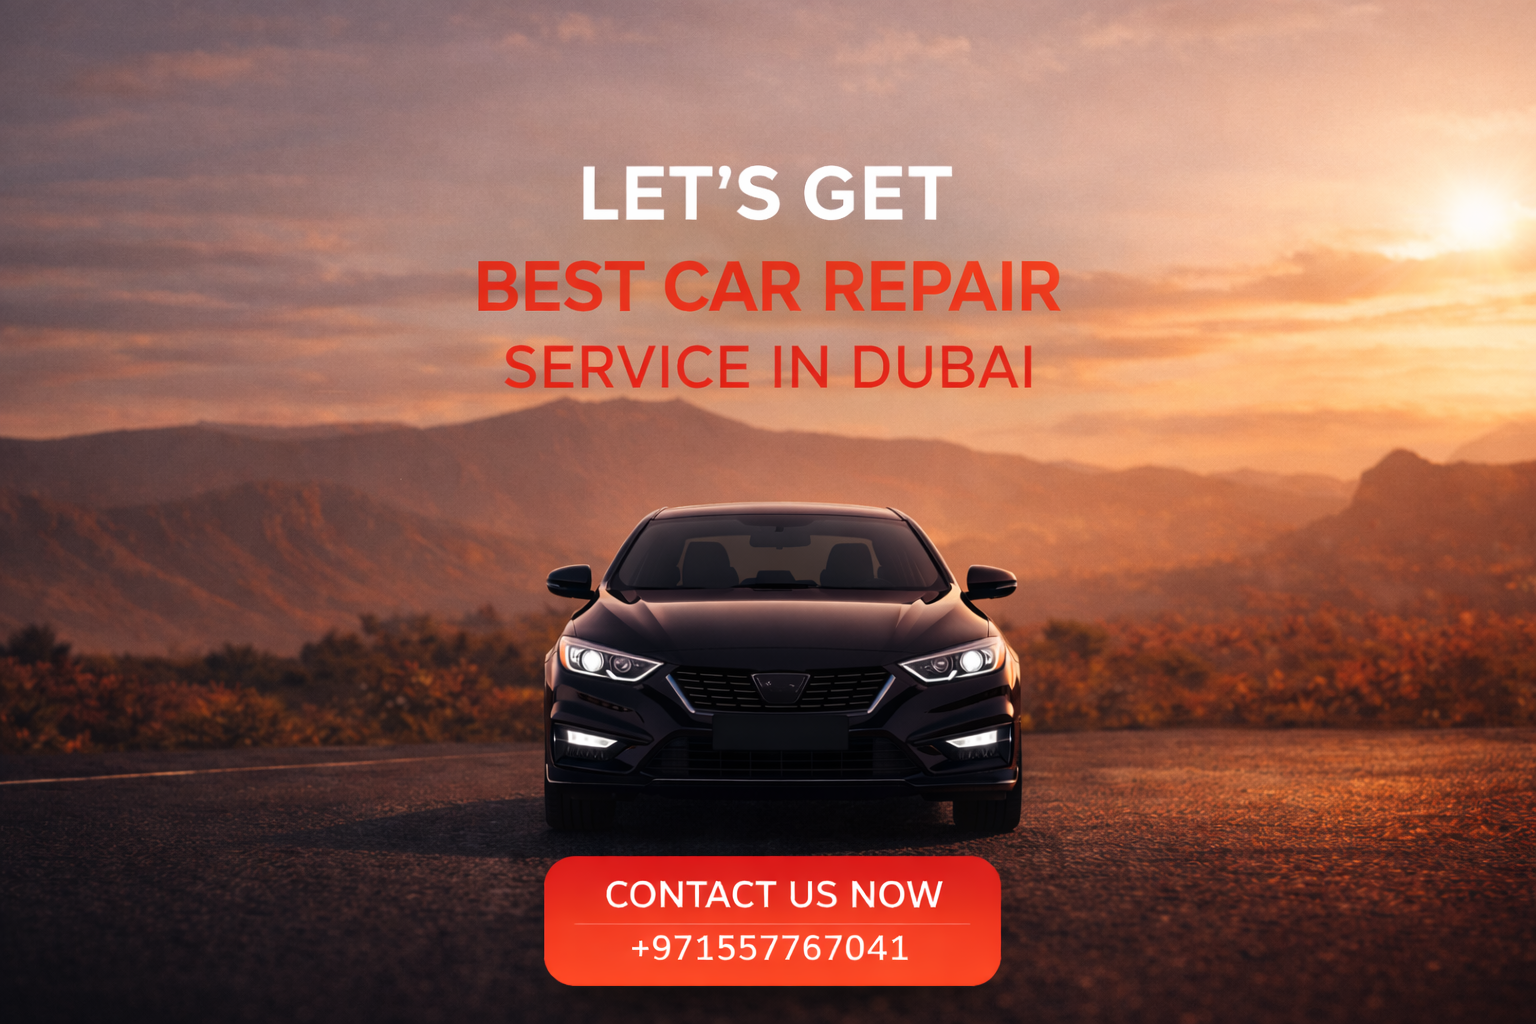
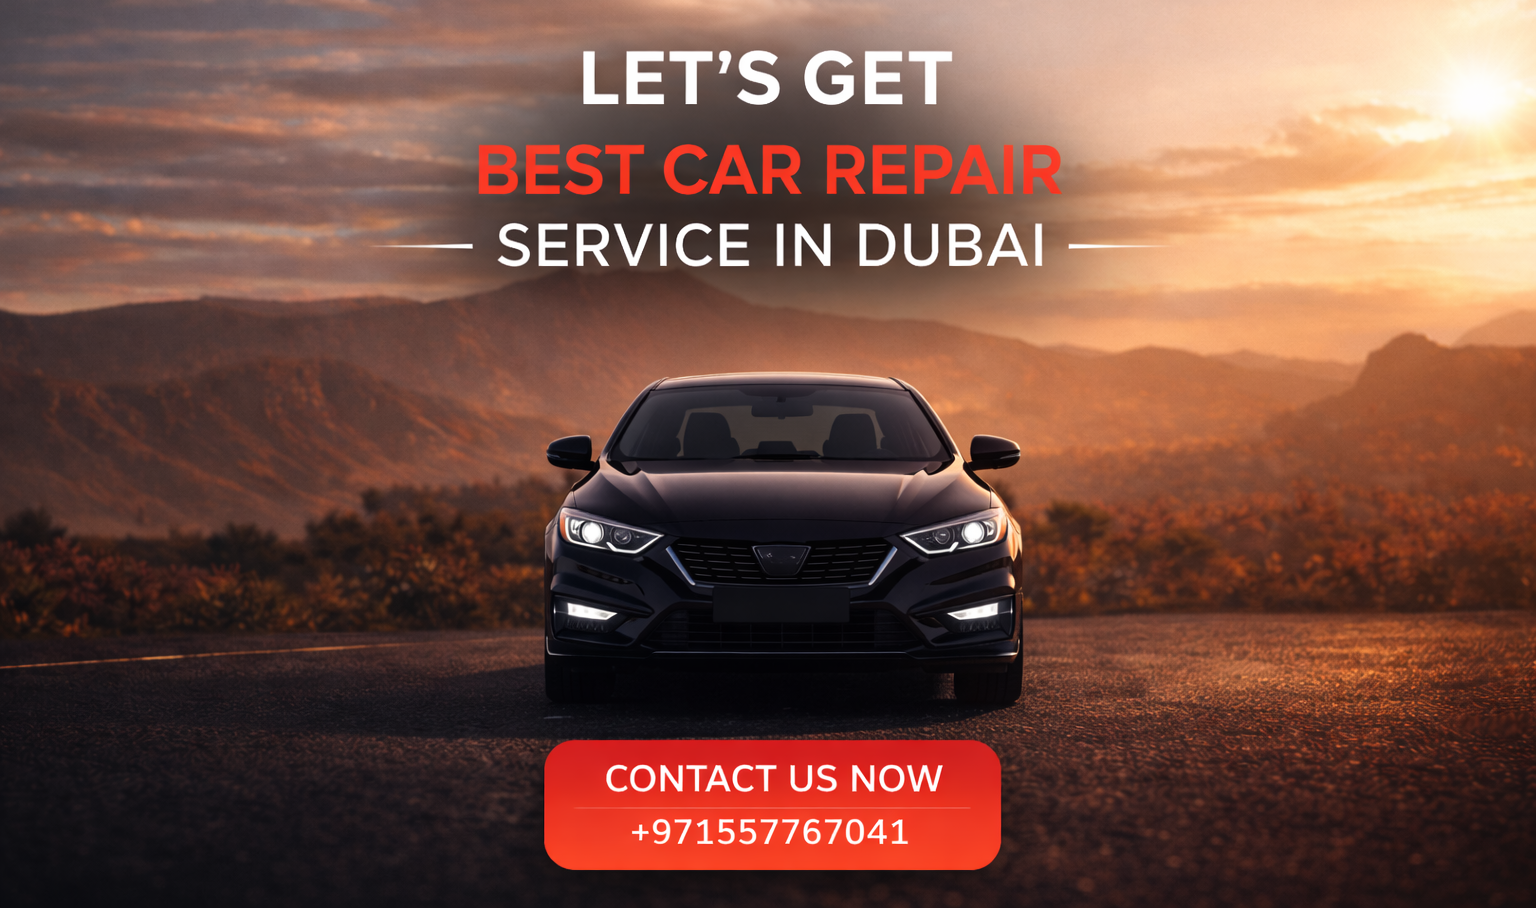
final edit dont

diff --git a/src/components/contact/ContactSection.tsx b/src/components/contact/ContactSection.tsx
@@ -27,19 +27,19 @@ export const ContactSection = ({
 }: ContactSectionProps) => {
   return (
     <section className="lg:py-20 py-12 bg-white">
-      <div className=" mx-auto px-2 sm:px-4">
+      <div className=" mx-auto px-2 sm:px-20">
         {/* Single column layout for medium screens */}
         <div className="flex flex-col md:flex-col lg:grid lg:grid-cols-2 gap-8 lg:gap-12 max-w-6xl md:max-w-7xl mx-auto">
           {/* Form Section - Full width on medium screens */}
-          <div className="bg-brand p-4 sm:p-6 md:p-12 lg:p-10 rounded-none w-full md:w-full lg:w-auto">
+          <div className="bg-brand  min-[320px]:py-4 sm:p-10 md:p-12 lg:p-10 rounded-none w-full md:w-full lg:w-auto">
             <ContactForm onSubmit={onFormSubmit} submitButtonText={submitButtonText} />
           </div>
 
           {/* Contact Info Section - Full width on medium screens */}
           <div className="flex flex-col space-y-8 p-4 sm:p-6 md:p-8 lg:p-8 w-full md:w-full lg:w-auto">
             <div>
-              <p className="text-accent text-sm md:text-2xl font-bold mb-2 text-brand">{label}</p>
-              <h2 className="min-[400px]:text-xl md:text-5xl lg:text-4xl font-bold max-[399px]:text-lg text-foreground">
+              <p className="text-accent min-[767px]:text-lg text-sm font-bold mb-2 text-brand">{label}</p>
+              <h2 className="min-[400px]:text-xl min-[767px]:text-3xl lg:text-4xl font-bold max-[399px]:text-lg text-foreground">
                 {heading}
               </h2>
             </div>
@@ -47,14 +47,14 @@ export const ContactSection = ({
             <div className="space-y-6 md:space-y-8">
               {contactInfo.location && (
                 <div className="flex items-start gap-4 md:gap-6">
-                  <div className="flex-shrink-0 w-12 min-[400px]:w-11 min-[400px]:h-11 md:w-16 md:h-16 max-[399px]:w-10 max-[399px]:h-10 h-12 bg-brand rounded-full flex items-center justify-center">
-                    <MapPin className="min-[400px]:w-6 min-[400px]:h-6 md:w-10 md:h-10 max-[399px]:w-5 max-[399px]:h-5 text-primary" />
+                  <div className="flex-shrink-0 w-12 min-[400px]:w-11 min-[400px]:h-11 min-[767px]:h-10 min-[767px]:w-10 max-[399px]:w-10 max-[399px]:h-10 h-12 bg-brand rounded-full flex items-center justify-center">
+                    <MapPin className="min-[400px]:w-6  min-[400px]:h-6 min-[767px]:h-5 min-[767px]:w-5  max-[399px]:w-5 max-[399px]:h-5 text-primary" />
                   </div>
                   <div>
-                    <h3 className="font-bold text-foreground min-[400px]:text-sm md:text-2xl max-[399px]:text-xs mb-1">
+                    <h3 className="font-bold text-foreground min-[400px]:text-sm min-[767px]:text-xl max-[399px]:text-xs mb-1">
                       {contactInfo.location.title}
                     </h3>
-                    <p className="text-muted-foreground min-[400px]:text-sm md:text-xl max-[399px]:text-xs ">
+                    <p className="text-muted-foreground min-[400px]:text-sm min-[767px]:text-lg max-[399px]:text-xs ">
                       {contactInfo.location.address}
                     </p>
                   </div>
@@ -63,16 +63,16 @@ export const ContactSection = ({
 
               {contactInfo.email && (
                 <div className="flex items-start gap-4 md:gap-6">
-                  <div className="flex-shrink-0 w-12 h-12 min-[400px]:w-11 min-[400px]:h-11 md:w-16 md:h-16 max-[399px]:w-10 max-[399px]:h-10 bg-brand rounded-full flex items-center justify-center">
-                    <Mail className="min-[400px]:w-6 min-[400px]:h-6 md:w-10 md:h-10 max-[399px]:w-5 max-[399px]:h-5 text-primary" />
+                  <div className="flex-shrink-0 w-12 h-12 min-[400px]:w-11 min-[400px]:h-11 min-[767px]:h-10 min-[767px]:w-10 max-[399px]:w-10 max-[399px]:h-10 bg-brand rounded-full flex items-center justify-center">
+                    <Mail className="min-[400px]:w-6 min-[400px]:h-6 min-[767px]:h-5 min-[767px]:w-5 max-[399px]:w-5 max-[399px]:h-5 text-primary" />
                   </div>
                   <div>
-                    <h3 className="font-bold text-foreground min-[400px]:text-sm md:text-2xl max-[399px]:text-xs mb-1">
+                    <h3 className="font-bold text-foreground min-[400px]:text-sm min-[767px]:text-xl max-[399px]:text-xs mb-1">
                       Email
                     </h3>
                     <a
                       href={`mailto:${contactInfo.email}`}
-                      className="text-muted-foreground hover:text-accent transition-colors min-[400px]:text-sm md:text-xl max-[399px]:text-xs underline"
+                      className="text-muted-foreground hover:text-accent transition-colors min-[400px]:text-sm min-[767px]:text-lg max-[399px]:text-xs underline"
                     >
                       {contactInfo.email}
                     </a>
@@ -82,16 +82,16 @@ export const ContactSection = ({
 
               {contactInfo.phone && (
                 <div className="flex items-start gap-4 md:gap-6">
-                  <div className="flex-shrink-0 w-12 h-12 min-[400px]:w-11 min-[400px]:h-11 md:w-16 md:h-16 max-[399px]:w-10 max-[399px]:h-10 bg-brand rounded-full flex items-center justify-center">
-                    <Phone className="min-[400px]:w-6 min-[400px]:h-6 md:w-10 md:h-10 max-[399px]:w-5 max-[399px]:h-5 text-primary" />
+                  <div className="flex-shrink-0 w-12 h-12 min-[400px]:w-11 min-[400px]:h-11 min-[767px]:h-10 min-[767px]:w-10 max-[399px]:w-10 max-[399px]:h-10 bg-brand rounded-full flex items-center justify-center">
+                    <Phone className="min-[400px]:w-6 min-[400px]:h-6 min-[767px]:h-5 min-[767px]:w-5 max-[399px]:w-5 max-[399px]:h-5 text-primary" />
                   </div>
                   <div>
-                    <h3 className="font-bold text-foreground min-[400px]:text-sm md:text-2xl max-[399px]:text-xs mb-1">
+                    <h3 className="font-bold text-foreground min-[400px]:text-sm min-[767px]:text-xl max-[399px]:text-xs mb-1">
                       Call / Whatsapp
                     </h3>
                     <a
                       href={`tel:${contactInfo.phone.replace(/\s/g, '')}`}
-                      className="text-muted-foreground hover:text-accent transition-colors min-[400px]:text-sm md:text-xl max-[399px]:text-xs underline"
+                      className="text-muted-foreground hover:text-accent transition-colors min-[400px]:text-sm min-[767px]:text-lg max-[399px]:text-xs underline"
                     >
                       {contactInfo.phone}
                     </a>

diff --git a/src/components/Hero/hero-slider.tsx b/src/components/Hero/hero-slider.tsx
@@ -1,13 +1,5 @@
 "use client"
 
-import Link from "next/link"
-
-import {
-  Carousel,
-  CarouselContent,
-  CarouselItem,
-  type CarouselApi
-} from "@/components/ui/carousel"
 import { useState, useEffect } from "react"
 import Image from "next/image"
 
@@ -37,15 +29,10 @@ interface HeroSliderProps {
 
 export function HeroSlider({ slides }: HeroSliderProps) {
   const [currentSlide, setCurrentSlide] = useState(0)
-  const [isMobile, setIsMobile] = useState(false)
+  const [mounted, setMounted] = useState(false)
 
   useEffect(() => {
-    const checkMobile = () => {
-      setIsMobile(window.innerWidth < 768)
-    }
-    checkMobile()
-    window.addEventListener("resize", checkMobile)
-    return () => window.removeEventListener("resize", checkMobile)
+    setMounted(true)
   }, [])
 
   useEffect(() => {
@@ -82,15 +69,22 @@ export function HeroSlider({ slides }: HeroSliderProps) {
               zIndex: index === currentSlide ? 1 : 0,
             }}
           >
+            {/* Single Image Approach - More Reliable */}
             <Image
-              src={isMobile && slide.imageSmall ? slide.imageSmall : slide.image}
+              src={slide.image}
               alt={slide.title}
               fill
-              sizes="100vw"
+              sizes="(max-width: 768px) 100vw, 100vw"
               priority={index === 0}
-              className="object-cover"
-              style={{ objectPosition: "center" }}
+              className="object-cover md:object-cover"
+              style={{
+                objectPosition: "center",
+                // Force image to show on all screens
+                display: 'block'
+              }}
+              quality={90}
             />
+
             {/* Dark Overlay */}
             <div className="absolute inset-0 bg-gradient-to-r from-black/80 via-black/50 to-black/30" />
           </div>
@@ -99,13 +93,16 @@ export function HeroSlider({ slides }: HeroSliderProps) {
 
       {/* Persistent Content */}
       <div className="absolute inset-0 z-10 flex h-full items-center justify-center px-4 md:px-8 lg:px-16 pointer-events-none">
-        <div className="max-w-4xl w-full text-center animate-fadeIn pointer-events-auto">
-          {/* Title - Specifically optimized for 320px screens */}
+        <div
+          key={currentSlide}
+          className="max-w-4xl w-full text-center animate-fadeIn pointer-events-auto"
+        >
+          {/* Title */}
           <h1
-            className="text-[32px] sm:text-4xl md:text-5xl lg:text-7xl xl:text-8xl text-white mb-6 tracking-tight drop-shadow-2xl leading-[1.1] font-extrabold uppercase"
+            className="text-2xl sm:text-4xl md:text-5xl lg:text-7xl xl:text-8xl text-white mb-6 tracking-tight drop-shadow-2xl leading-[1.1] font-extrabold uppercase"
             style={{ fontFamily: 'Montserrat, sans-serif' }}
           >
-            {slides[0].title}
+            {slides[currentSlide].title}
           </h1>
 
           {/* Description */}
@@ -113,24 +110,33 @@ export function HeroSlider({ slides }: HeroSliderProps) {
             className="text-sm sm:text-base md:text-xl text-white mb-8 max-w-2xl mx-auto leading-relaxed drop-shadow-lg px-2 font-medium"
             style={{ fontFamily: 'Poppins, sans-serif' }}
           >
-            {slides[0].description}
+            {slides[currentSlide].description}
           </p>
 
           {/* CTA Button */}
           <div className="flex flex-col sm:flex-row gap-4 justify-center items-center">
-            <a
-              href={slides[0].buttonLink}
-              className="font-bold bg-brand py-3 px-10 text-white hover:bg-brand/90 transition-all duration-300 transform hover:scale-105 inline-block text-center text-lg rounded-sm shadow-xl"
-              style={{ fontFamily: 'Montserrat, sans-serif' }}
-              onClick={() => handleCTAClick(slides[0].id, slides[0].buttonText)}
-            >
-              {slides[0].buttonText}
-            </a>
+            {slides[currentSlide].buttonLink.startsWith('tel:') ? (
+              <a
+                href={slides[currentSlide].buttonLink}
+                className="font-bold bg-brand py-3 px-10 text-white hover:bg-brand/90 transition-all duration-300 transform hover:scale-105 inline-block text-center text-lg rounded-sm shadow-xl"
+                style={{ fontFamily: 'Montserrat, sans-serif' }}
+                onClick={() => handleCTAClick(slides[currentSlide].id, slides[currentSlide].buttonText)}
+              >
+                {slides[currentSlide].buttonText}
+              </a>
+            ) : (
+              <a
+                href={slides[currentSlide].buttonLink}
+                className="font-bold bg-brand py-3 px-10 text-white hover:bg-brand/90 transition-all duration-300 transform hover:scale-105 inline-block text-center text-lg rounded-sm shadow-xl"
+                style={{ fontFamily: 'Montserrat, sans-serif' }}
+                onClick={() => handleCTAClick(slides[currentSlide].id, slides[currentSlide].buttonText)}
+              >
+                {slides[currentSlide].buttonText}
+              </a>
+            )}
           </div>
         </div>
       </div>
-
-
     </div>
   )
 }

diff --git a/src/components/Solution/solution.tsx b/src/components/Solution/solution.tsx
@@ -40,18 +40,18 @@ export const SolutionSection = ({
   return (
     <section className="w-full py-16 px-4 md:px-8 lg:px-16  bg-gray-50">
       <div className="max-w-7xl mx-auto">
-        <div className="grid grid-cols-1 lg:grid-cols-2 gap-8 lg:gap-12 items-center">
+        <div className="grid grid-cols-1 min-[760px]:grid-cols-2   lg:grid-cols-2 gap-8 lg:gap-12 items-center">
           {/* Left Content */}
           <div className="space-y-4 text-center lg:text-left order-1 lg:order-1">
-            <p className="text-destructive font-semibold text-sm uppercase tracking-wider text-brand">
+            <p className="text-destructive min-[767px]:text-xs font-semibold text-sm uppercase tracking-wider text-brand">
               {label}
             </p>
 
-            <h2 className="text-2xl md:text-4xl lg:text-5xl font-bold text-foreground leading-tight">
+            <h2 className="text-2xl min-[767px]:text-2xl  lg:text-5xl font-bold text-foreground leading-tight">
               {heading}
             </h2>
 
-            <p className="text-muted-foreground text-sm md:text-lg leading-relaxed max-w-2xl mx-auto lg:mx-0">
+            <p className="text-muted-foreground min-[767px]:text-base text-sm leading-relaxed max-w-2xl mx-auto lg:mx-0">
               {description}
             </p>
 
@@ -59,14 +59,14 @@ export const SolutionSection = ({
               {/* Primary Button - Call Now */}
               <a
                 href="tel:+971557767041"
-                className="font-semibold bg-brand py-2 px-6 text-white hover:bg-brand/90 transition-all duration-300 transform hover:scale-105 inline-block text-center"
+                className="font-semibold min-[767px]:px-3  bg-brand py-2 px-6 text-white hover:bg-brand/90 transition-all duration-300 transform hover:scale-105 inline-block text-center"
               >
                 {primaryButtonText}
               </a>
 
               {/* Secondary Button - Our Services - Navigates to /services */}
               <button
-                className="font-semibold bg-brand py-2 px-5 text-white hover:bg-brand/90 transition-all duration-300 transform hover:scale-105"
+                className="font-semibold bg-brand min-[767px]:px-3 py-2 px-5 text-white hover:bg-brand/90 transition-all duration-300 transform hover:scale-105"
                 onClick={handleSecondaryClick}
               >
                 {secondaryButtonText}
@@ -75,13 +75,13 @@ export const SolutionSection = ({
           </div>
 
           {/* Right Image with Overlay */}
-          <div className=" overflow-hidden group order-2 lg:order-2 shadow-2xl">
+          <div className=" overflow-hidden   group order-2 lg:order-2 shadow-2xl">
             <Image
               width={1920}
               height={400}
               src={imageUrl}
               alt="Service showcase"
-              className="object-cover w-full h-[300px] lg:h-[400px] transition-transform duration-500 group-hover:scale-110"
+              className="object-cover w-full  h-[300px] max-[760px]:h-[460px]  lg:h-[400px] transition-transform duration-500 group-hover:scale-110"
             />
           </div>
         </div>

diff --git a/src/components/shared/ContactForm.tsx b/src/components/shared/ContactForm.tsx
@@ -79,7 +79,7 @@ export const ContactForm = ({
           type="text"
           placeholder="Name"
           {...register("name")}
-          className="w-full p-2 sm:p-3 md:p-5 text-sm sm:text-base md:text-2xl rounded-none outline-hidden bg-primary focus:outline-none"
+          className="w-full p-2 sm:p-3 md:p-5 text-sm sm:text-base min-[800px]:text-lg  max-[399px]:text-xs rounded-none outline-hidden bg-primary focus:outline-none"
         />
         {errors.name && <p className="text-red-500 text-sm">{errors.name.message}</p>}
       </div>
@@ -90,7 +90,7 @@ export const ContactForm = ({
           type="email"
           placeholder="Email"
           {...register("email")}
-          className="w-full p-2 sm:p-3 md:p-5 text-sm sm:text-base md:text-2xl rounded-none outline-hidden bg-primary focus:outline-none"
+          className="w-full p-2 sm:p-3 md:p-5 text-sm sm:text-base min-[800px]:text-lg  max-[399px]:text-xs rounded-none outline-hidden bg-primary focus:outline-none"
         />
         {errors.email && <p className="text-red-500 text-sm">{errors.email.message}</p>}
       </div>
@@ -101,7 +101,7 @@ export const ContactForm = ({
           type="tel"
           placeholder="Phone"
           {...register("phone")}
-          className="w-full p-2 sm:p-3 md:p-5 text-sm sm:text-base md:text-2xl rounded-none outline-hidden bg-primary focus:outline-none"
+          className="w-full p-2 sm:p-3 md:p-5 text-sm sm:text-base min-[800px]:text-lg  max-[399px]:text-xs rounded-none outline-hidden bg-primary focus:outline-none"
         />
         {errors.phone && <p className="text-red-500 text-sm">{errors.phone.message}</p>}
       </div>
@@ -110,9 +110,9 @@ export const ContactForm = ({
       <div>
         <textarea
           placeholder="Message"
-          rows={4}
+          rows={8}
           {...register("message")}
-          className="w-full p-2 sm:p-3 md:p-5 text-sm sm:text-base md:text-2xl rounded-none outline-hidden bg-primary focus:outline-none"
+          className="w-full p-2 sm:p-3 md:p-5 text-sm sm:text-base min-[800px]:text-lg  max-[399px]:text-xs rounded-none outline-hidden bg-primary focus:outline-none"
         />
         {errors.message && <p className="text-red-500 text-sm">{errors.message.message}</p>}
       </div>
@@ -121,7 +121,7 @@ export const ContactForm = ({
       <button
         type="submit"
         disabled={isSubmitting}
-        className="w-full bg-primary hover:bg-secondary text-brand md:text-red-600 py-2 sm:py-3 md:py-5 text-sm sm:text-base md:text-2xl font-bold transition disabled:opacity-70"
+        className="w-full bg-primary hover:bg-secondary text-brand md:text-red-600 py-2 sm:py-3 md:py-5 text-sm sm:text-base min-[800px]:text-lg  max-[399px]:text-xs font-bold transition disabled:opacity-70"
       >
         {isSubmitting ? "Sending..." : "Send"}
       </button>

diff --git a/src/components/footer/footer.tsx b/src/components/footer/footer.tsx
@@ -118,8 +118,11 @@ export const Footer = ({
       </div>
 
       {/* Bottom Bar - Moved outside the main container to be truly full width */}
-      <div className="py-2 border-t border-gray-800 bg-black w-full px-4">
-        <div className="container mx-auto flex flex-col items-start justify-between gap-2 md:flex-row md:items-center">
+      <div className="py-2 border-t border-gray-800 bg-black w-full px-4 lg:h-16 lg:pr-32">
+        <div className="container mx-auto flex lg:pt-2 flex-row items-start justify-between gap-2 md:flex-row md:items-center">
+          <p className="min-[320px]:text-[10px] lg:text-lg  sm:text-[8px] text-white text-left font-montserrat tracking-tight">
+            © <span className="text-white">www.mobilecarrepairsservice.com {currentYear}.</span>
+          </p>
           {/* Mobile & Desktop Social Links */}
           {showSocialLinks && (
             <div className="flex items-center gap-2">
@@ -130,7 +133,7 @@ export const Footer = ({
                 className="text-white hover:text-brand transition-all duration-300"
                 aria-label="Facebook"
               >
-                <Facebook className="w-7 h-7 md:w-4 md:h-4" />
+                <Facebook className="w-7 h-7 min-[320px]:w-4 min-[320px]:h-4 lg:w-7 lg:h-7 md:w-4 md:h-4 sm:w-4 sm:h-4" />
               </a>
               <a
                 href={instagramUrl}
@@ -139,14 +142,12 @@ export const Footer = ({
                 className="text-white hover:text-brand transition-all duration-300"
                 aria-label="Instagram"
               >
-                <Instagram className="w-6 h-6 md:w-4 md:h-4" />
+                <Instagram className="w-6 h-6 md:w-4  min-[320px]:w-4 min-[320px]:h-4 lg:w-7 lg:h-7 md:h-4 sm:w-4 sm:h-4" />
               </a>
             </div>
           )}
 
-          <p className="text-[16px] sm:text-[10px] text-white text-left font-montserrat tracking-tight">
-            © <span className="text-white">Mobilecarrepairsservice.com {currentYear}.</span>
-          </p>
+
         </div>
       </div>
     </footer>

diff --git a/src/components/shared/WhatsAppButton.tsx b/src/components/shared/WhatsAppButton.tsx
@@ -7,7 +7,7 @@ export const WhatsAppButton = () => {
             target="_blank"
             rel="noopener noreferrer"
             aria-label="WhatsApp us"
-            className="fixed bottom-4 right-2 z-[9999] animate-in fade-in slide-in-from-bottom-4 group"
+            className="fixed bottom-10 right-2 z-[9999] animate-in fade-in slide-in-from-bottom-4 group"
         >
             <div
                 className="flex z-99 items-center justify-center bg-[#e4e4e4] text-[#7f7d7d] w-14 h-14 sm:w-auto sm:h-9 md:h-12 px-0 sm:px-4 rounded-full shadow-lg transition-all duration-200 hover:bg-[#d4d4d4]"

diff --git a/src/app/globals.css b/src/app/globals.css
@@ -262,7 +262,7 @@ h6 {
 .grecaptcha-badge {
   left: 0 !important;
   right: auto !important;
-  bottom: 0 !important;
+  bottom: 40 !important;
   border-radius: 0 4px 4px 0 !important;
   transition: opacity 0.3s ease !important;
   width: 70px !important;
